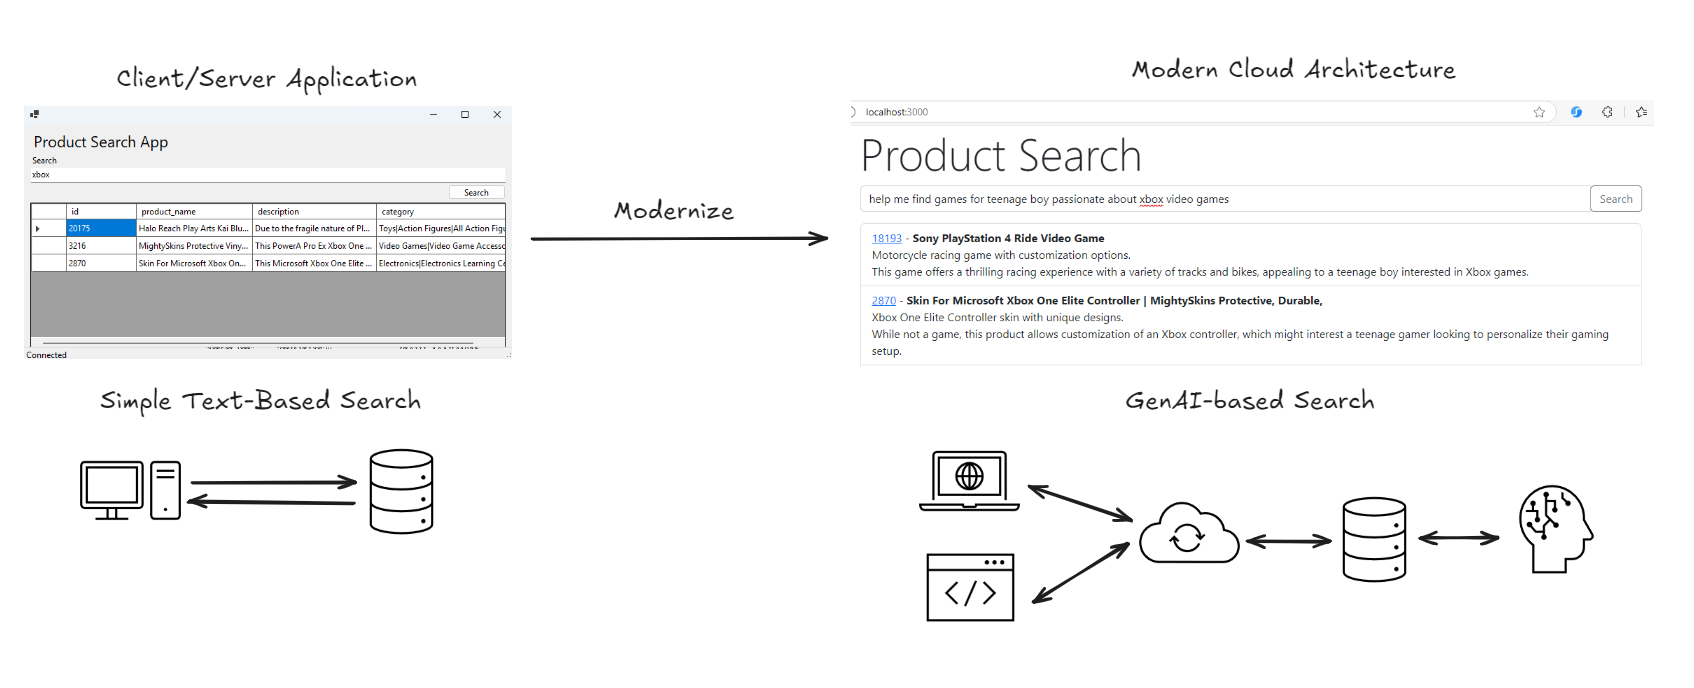
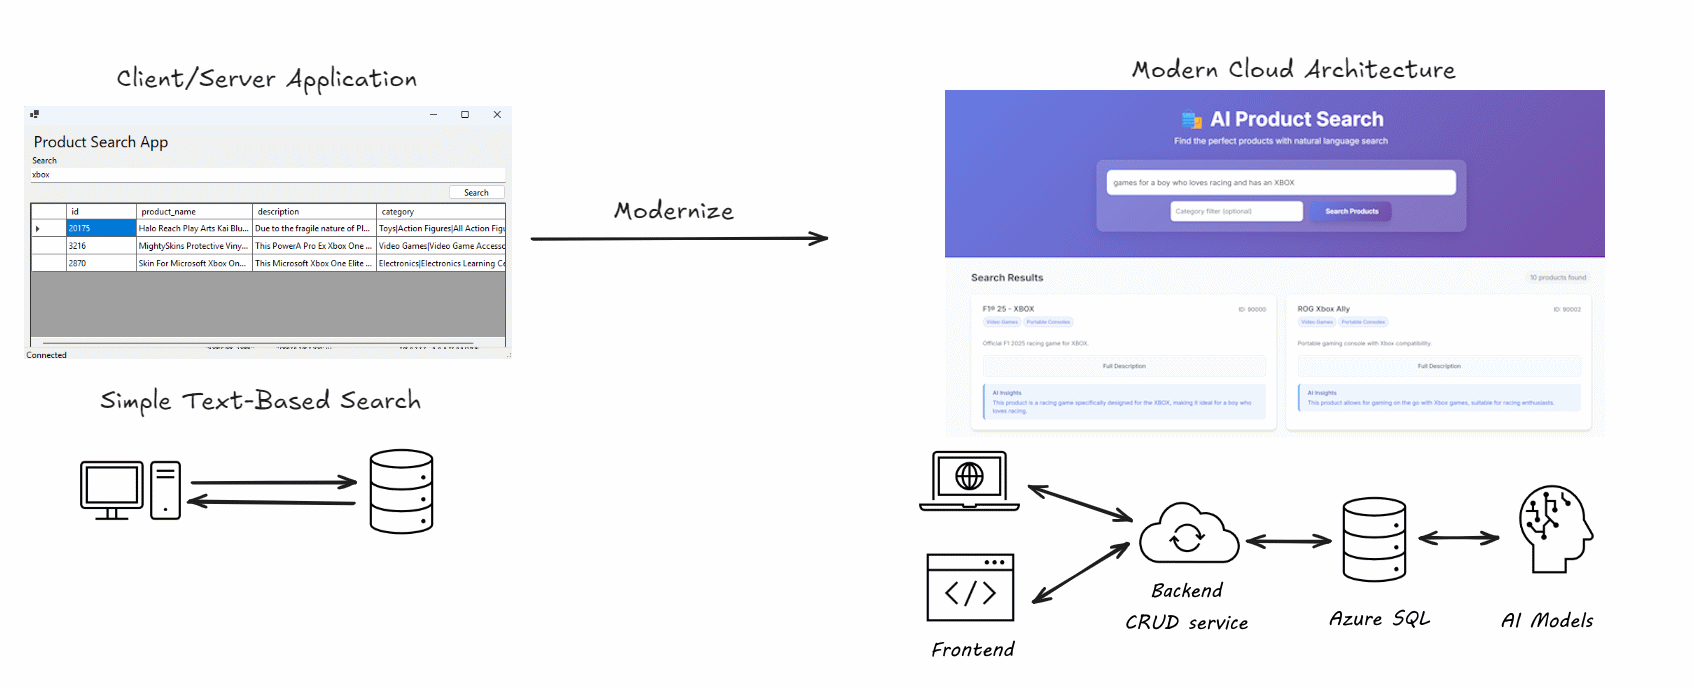
updated readme and image

diff --git a/README.md b/README.md
@@ -114,15 +114,7 @@ dab start
 
 Once you'll see the message `Now listening on: http://localhost:5000` you can open your browser and navigate to `http://localhost:5000/swagger` to see the generated API documentation.
 
-Even better, you can use the [Live Server VS Code extension](https://marketplace.visualstudio.com/items?itemName=ritwickdey.LiveServer) to serve the `index.html` file and see the how easy is to use the aforementioned API in a modern web application, or you can use the simple Node application to serve the `index.html` file.
-
-```bash
-node app.js
-```
-
-Then open your browser and navigate to `http://localhost:3000` to see the modernized application in action. Make sure you are using the latest version of the stored procedure, available in the `./sql/004-search-gpt.sql` file.
-
-Thanks to Data API builder, the only needed to connect your front-end application to the database is to use the generated API endpoints, without the need to write any additional code:
+Thanks to Data API builder, the only needed to connect your front-end application to the database is to use the generated API endpoints, without the need to write any additional code. For example, to call the GraphQL endpoint to search for products you can use the following code:
 
 ```javascript
 var graphql = `
@@ -146,3 +138,67 @@ var response = await fetch(
 })
 var payload = await response.json();
 ```
+
+## AI-Powered Web Application Interface
+
+The `WebApp` folder contains a modern, responsive web application that provides an intuitive interface for searching products using natural language queries. This application demonstrates how to build a complete front-end solution that leverages the AI-powered Azure SQL backend through Data API Builder.
+
+### Web Application Features
+
+- 🎯 **Natural Language Search**: Search for products using conversational queries like "find the best video game to gift to a teenager boy"
+- 🎨 **Modern UI**: Clean, responsive design with Fluent UI components and Tailwind CSS styling
+- 🔍 **Category Filtering**: Optional category-based filtering for more targeted searches
+- 🧠 **AI Insights**: Display AI-generated thoughts and recommendations for each product
+- ⚡ **Real-time Search**: Debounced search as you type for instant results
+- 📱 **Responsive Design**: Works seamlessly on desktop, tablet, and mobile devices
+- 🎭 **Smooth Animations**: Fade-in effects and smooth transitions for better UX
+
+### Technologies Used in Web App
+
+- **HTML5**: Semantic markup with modern web standards
+- **JavaScript (ES6+)**: Modern JavaScript with async/await and fetch API
+- **jQuery**: DOM manipulation and event handling
+- **Tailwind CSS**: Utility-first CSS framework for styling
+- **Fluent UI Web Components**: Microsoft's design system components
+- **Data API Builder**: RESTful API for Azure SQL database access
+
+### Running the Web Application
+
+To run the web application, ensure the Data API Builder is running first:
+
+```bash
+cd DAB
+dab start
+```
+
+Then open another terminal windows and serve the web application:
+
+```bash
+cd WebApp
+# Using Node.js http-server
+npx http-server
+
+# Or using Python
+python -m http.server 8000
+
+# Or use Live Server in VS Code
+# Right-click on index.html and select "Open with Live Server"
+```
+
+Navigate to `http://localhost:8080` (or the port shown in your terminal) to access the application.
+
+### Example Search Queries
+
+Try these natural language queries in the web application:
+
+- "find the best video game to gift to a teenager boy"
+- "educational toys for kids"
+- "outdoor sports equipment"
+- "electronics for home office"
+- "books for learning programming"
+
+### API Integration
+
+The web application connects to the Data API Builder endpoint at `http://localhost:5000/api/searchProducts` using RESTful calls, providing a seamless integration between the modern front-end and the AI-powered Azure SQL backend.
+
+> **Note**: All content in the WebApp folder has been generated by GitHub Copilot with Claude Sonnet 4, based on the requirements of the Azure SQL Modernize App with AI sample, showcasing how AI can assist in creating modern web applications. A sample of the saved prompts, along with LLM answers, used to generate the code is provided in the `./WepApp-Prompt.txt` file.
